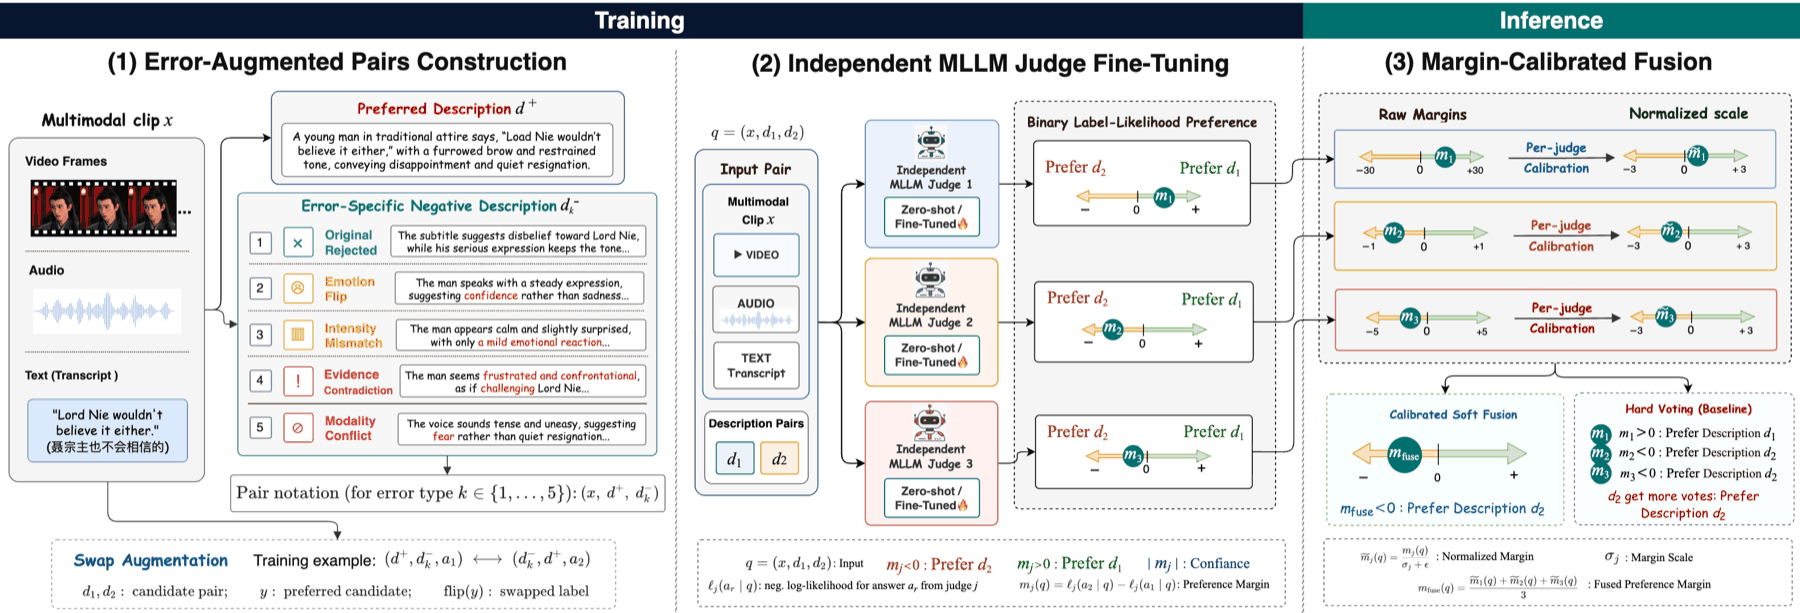
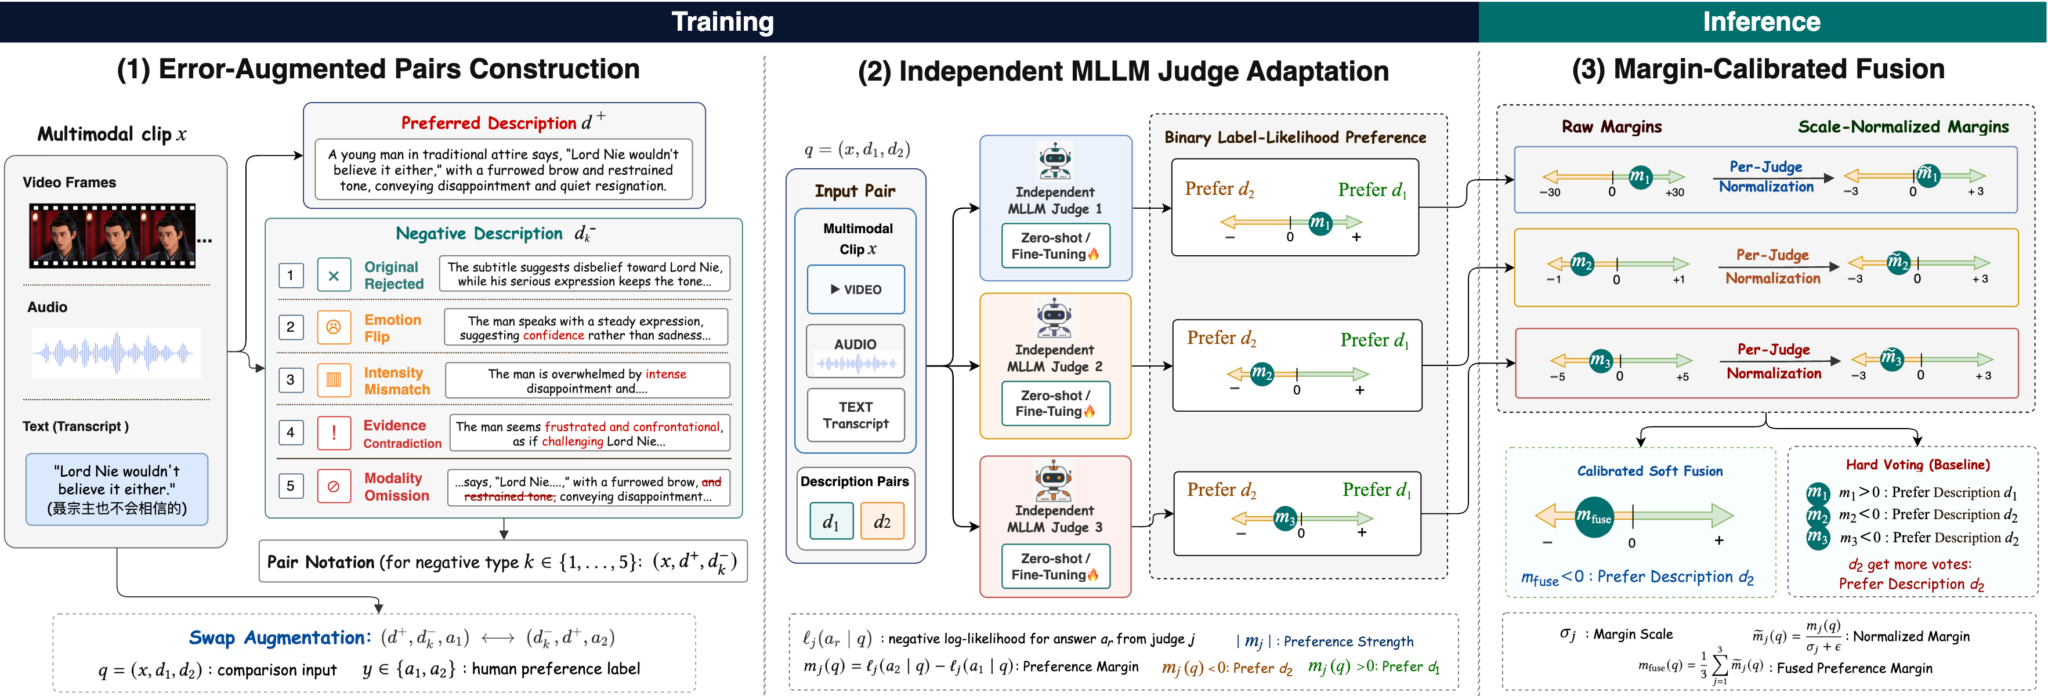
更新出版物条目，添加链接和代码星标图标

diff --git a/_pages/includes/pub.md b/_pages/includes/pub.md
@@ -8,11 +8,11 @@
 <div class='paper-box'><div class='paper-box-image'><div><div class="badge">MRAC 2026</div><img src='./images/eapo.png' alt="sym" width="100%"></div></div>
 <div class='paper-box-text' markdown="1">
 
-Learning to Prefer Reliably: Error-Augmented Emotion Preference Optimization with Calibrated Fusion. Zilong Huang, Junyi Peng, Junjie Li, **Kai Li**, Wenze Ren, Kong Aik Lee, Man-Wai Mak, Tatsuya Kawahara. **MRAC 2026 @ ACM Multimedia 2026. Rio de Janeiro, Brazil.**
+[Learning to Prefer Reliably: Error-Augmented Emotion Preference Optimization with Calibrated Fusion](https://arxiv.org/abs/2608.24730) Zilong Huang, Junyi Peng, Junjie Li, **Kai Li**, Wenze Ren, Kong Aik Lee, Man-Wai Mak, Tatsuya Kawahara. **MRAC 2026 @ ACM Multimedia 2026. Rio de Janeiro, Brazil.**
 
 - EAPO augments sparse human preference pairs with four controlled error types (Emotion Flip, Intensity Mismatch, Evidence Contradiction, and Modality Conflict), adapts multiple MLLM judges independently via LoRA-based SFT and DPO, and combines them through margin-calibrated soft fusion, ranking **6th on the MER2026 MER-Prefer leaderboard**.
 
-- [![Challenge-Page](https://img.shields.io/badge/Challenge_Page-MER2026-brightgreen)](https://zeroqiaoba.github.io/MER-Challenge/) \| [![Workshop](https://img.shields.io/badge/Workshop-MRAC_2026-blue)](https://react-ws.github.io/2026_mrac/)
+- [![Challenge-Page](https://img.shields.io/badge/Challenge_Page-MER2026-brightgreen)](https://zeroqiaoba.github.io/MER-Challenge/) \| [![Workshop](https://img.shields.io/badge/Workshop-MRAC_2026-blue)](https://react-ws.github.io/2026_mrac/) \| <a href="https://github.com/slash1028/EAPO-EmoPrefer"><img src="https://img.shields.io/github/stars/slash1028/EAPO-EmoPrefer?style=social&amp;label=Code+Stars" alt=""></a>
 
 </div>
 </div>
